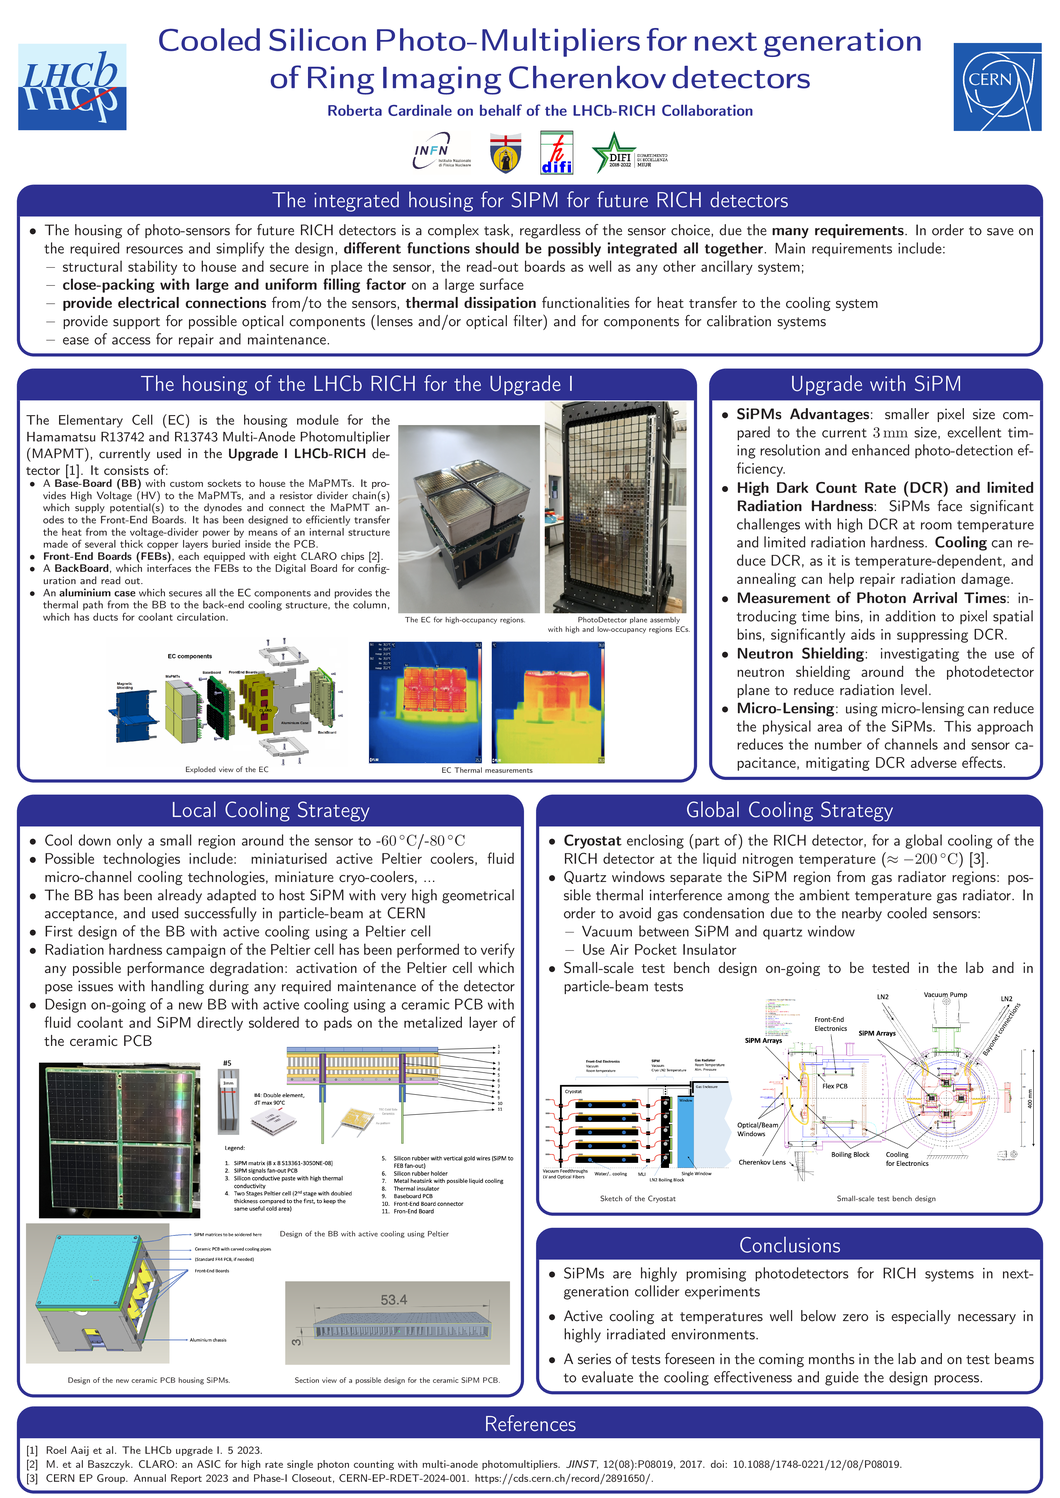
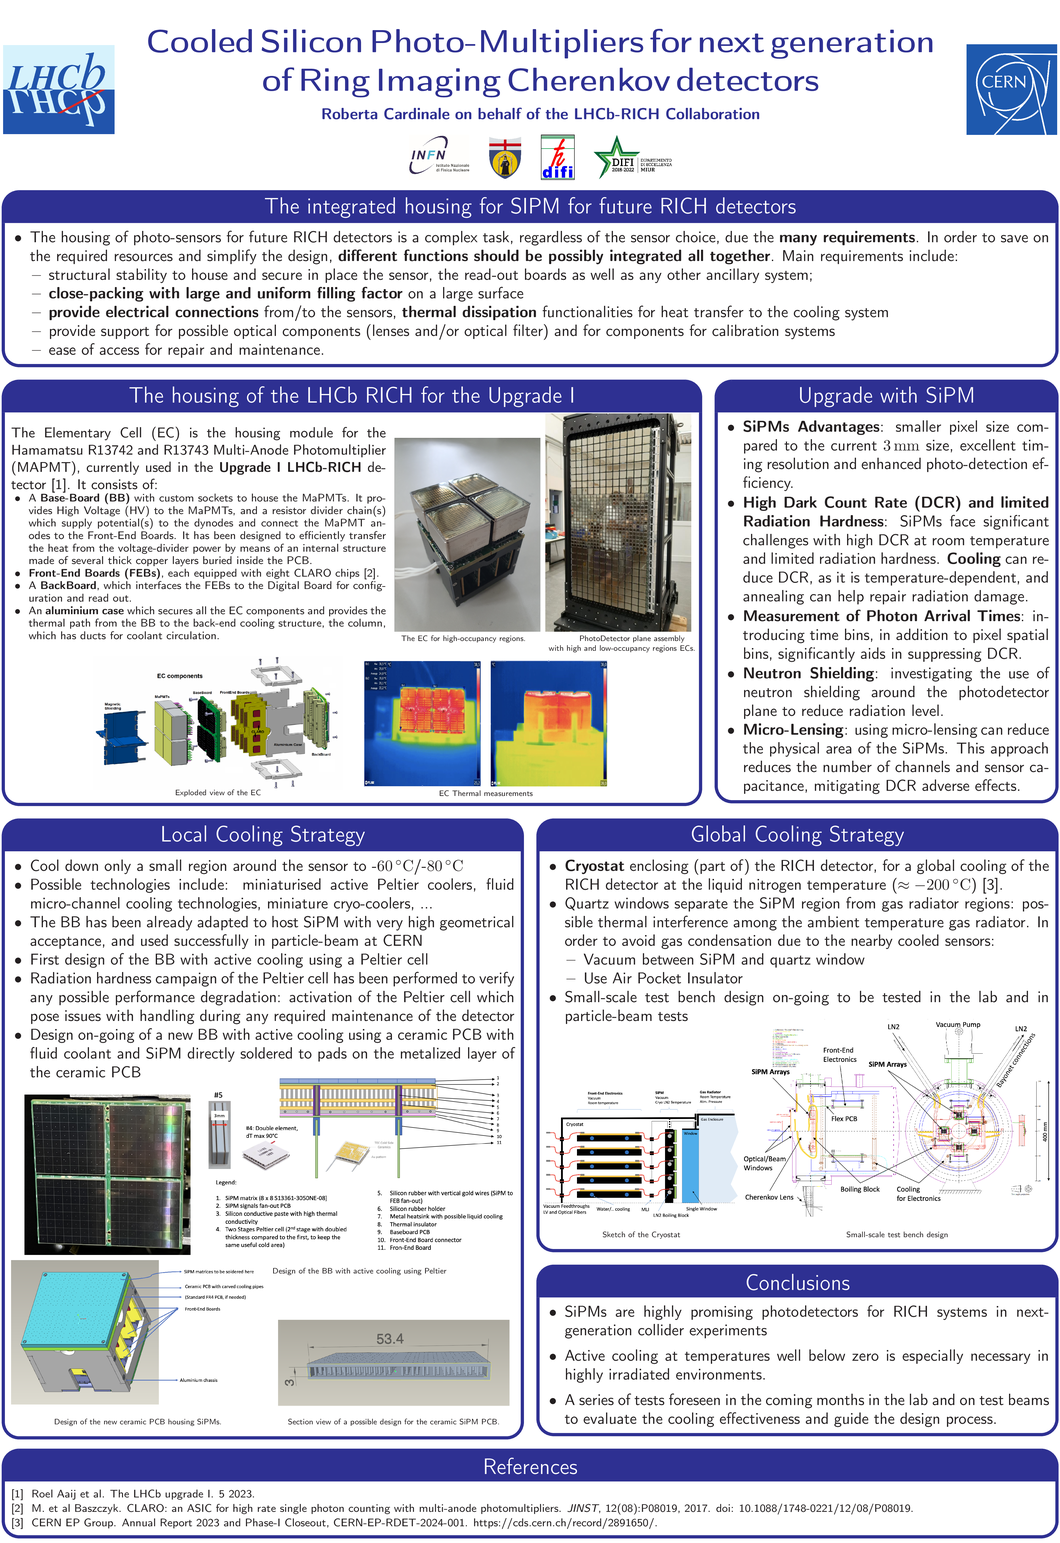
More cropped.

diff --git a/pm2024/pm2024_raster.py b/pm2024/pm2024_raster.py
@@ -40,7 +40,9 @@ PARSER.add_argument('--autocrop', action='store_true')
 PARSER.add_argument('--overwrite', action='store_true')
 
 
-_AUTOCROP_LIST = [23, 60, 100, 114, 198, 208, 211, 212, 220, 234, 262, 340, 436, 437, 471]
+_AUTOCROP_LIST = [1, 23, 29, 60, 66, 100, 110, 114, 129, 139, 184, 189, 191,
+    198, 208, 211, 212, 219, 220, 224, 234, 242, 245, 256, 262, 263, 265, 287,
+    290, 299, 311, 316, 331, 335, 340, 369, 375, 377, 381, 389, 436, 437, 471, 488]
 
 
 
